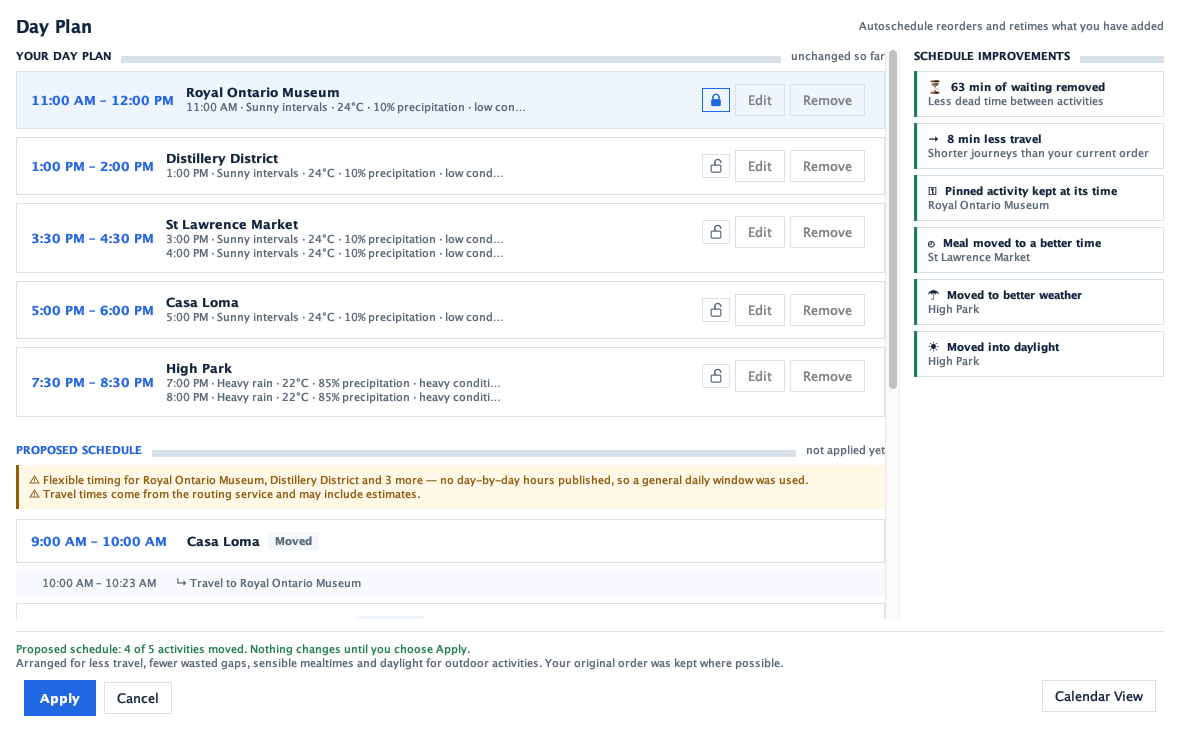
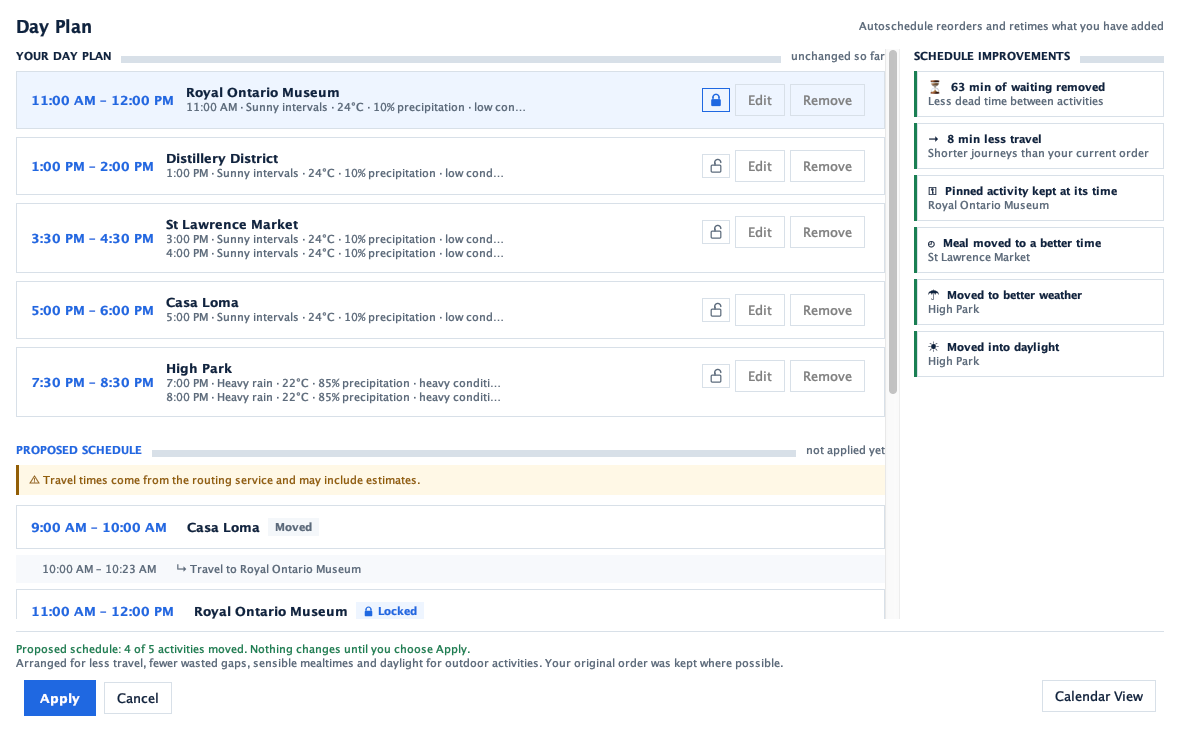
fix(autoschedule): drop the unknown-hours warning entirely
On real OpenStreetMap data most venues publish no opening_hours tag, so
naming them put a caution on nearly every schedule. A warning that always
appears is one people learn to skip, and it was costing the
travel-estimate caveat and the genuine conflicts some of their weight.

The behaviour is unchanged: a venue with no published hours is still
scheduled inside the activity's coarse single window, and that window is
still enforced. Only the commentary went.

A venue on record as shut for the trip date is still named, and that one
produces a conflict rather than a warning -- it stops the schedule
instead of decorating it.

aVenueWithNoRecordedHoursIsStillActuallyScheduled now pins the
permissiveness separately from any wording, so it cannot be lost while
nobody is looking. 472 -> 471 tests; the removed assertions were about
text that no longer exists.

Screenshot 3 re-captured: the warning band is back to one line.

Changed region(s): [[0.0, 0.6311, 0.7627, 0.8415]]

diff --git a/src/test/java/closeai/application/autoschedule/OpeningHoursWarningTest.java b/src/test/java/closeai/application/autoschedule/OpeningHoursWarningTest.java
@@ -68,75 +68,50 @@ class OpeningHoursWarningTest {
                         Collections.emptySet(), Collections.emptyList(), true, false));
     }
 
-    private String openingHoursWarning() {
-        for (String warning : presenter.getPreview().getWarnings()) {
-            if (warning.contains("Flexible timing")) {
-                return warning;
-            }
-        }
-        return null;
-    }
-
     @Test
-    void aVenueWithNoRecordedHoursIsScheduledAndSaidSoAbout() {
+    void aVenueWithNoRecordedHoursIsScheduledWithoutComment() {
         run(tripWith(event("Casa Loma", 10, OpeningHours.unknown())));
 
         assertNotNull(presenter.getPreview(), "unknown hours must not prevent a schedule");
-        String warning = openingHoursWarning();
-        assertNotNull(warning, "the guess must be stated: "
-                + presenter.getPreview().getWarnings());
-        assertTrue(warning.contains("Casa Loma"), warning);
-        assertTrue(warning.contains("no day-by-day hours published"), warning);
-        assertTrue(warning.contains("a general daily window was used"),
-                "the coarse window still applies, so the warning must not promise any time: "
-                        + warning);
-    }
-
-    @Test
-    void aVenueWithRealHoursIsNotWarnedAbout() {
-        run(tripWith(event("Gallery", 10, ProblemFixtures.hoursOn(DayOfWeek.WEDNESDAY,
-                "09:00-18:00"))));
-
-        assertNotNull(presenter.getPreview());
-        assertNull(openingHoursWarning(),
-                "hours we actually have need no caveat: "
+        assertTrue(presenter.getPreview().getWarnings().isEmpty(),
+                "no published hours is the ordinary case, not something to caution about: "
                         + presenter.getPreview().getWarnings());
     }
 
     @Test
-    void severalUnknownVenuesAreNamedTogetherInOneWarning() {
-        run(tripWith(event("Casa Loma", 10, OpeningHours.unknown()),
-                event("High Park", 13, OpeningHours.unknown())));
+    void aVenueWithRealHoursIsNotWarnedAboutEither() {
+        run(tripWith(event("Gallery", 10, ProblemFixtures.hoursOn(DayOfWeek.WEDNESDAY,
+                "09:00-18:00"))));
 
-        String warning = openingHoursWarning();
-        assertNotNull(warning);
-        assertTrue(warning.contains("Casa Loma and High Park"), warning);
-        assertTrue(warning.contains("a general daily window was used"), warning);
+        assertNotNull(presenter.getPreview());
+        assertTrue(presenter.getPreview().getWarnings().isEmpty(),
+                presenter.getPreview().getWarnings().toString());
     }
 
     @Test
-    void aLongDayOfUnknownVenuesIsSummarisedRatherThanListedInFull() {
+    void awholeDayOfVenuesWithoutHoursProducesNoWarningsAtAll() {
         run(tripWith(event("A", 9, OpeningHours.unknown()),
                 event("B", 11, OpeningHours.unknown()),
                 event("C", 13, OpeningHours.unknown()),
                 event("D", 15, OpeningHours.unknown())));
 
-        String warning = openingHoursWarning();
-        assertNotNull(warning);
-        assertTrue(warning.contains("A, B and 2 more"), warning);
+        assertNotNull(presenter.getPreview());
+        assertTrue(presenter.getPreview().getWarnings().isEmpty(),
+                "four unknowns is a normal day, not four problems: "
+                        + presenter.getPreview().getWarnings());
     }
 
+    /**
+     * The permissiveness itself is unchanged — it is only the commentary that went. An
+     * activity with no published hours is still placed inside its general daily window
+     * rather than refused, and that is what actually matters.
+     */
     @Test
-    void onlyTheVenuesWeReallyKnowNothingAboutAreNamed() {
-        run(tripWith(event("Known", 10, ProblemFixtures.hoursOn(DayOfWeek.WEDNESDAY,
-                        "09:00-18:00")),
-                event("Unknown", 13, OpeningHours.unknown())));
+    void aVenueWithNoRecordedHoursIsStillActuallyScheduled() {
+        run(tripWith(event("Casa Loma", 10, OpeningHours.unknown())));
 
-        String warning = openingHoursWarning();
-        assertNotNull(warning);
-        assertTrue(warning.contains("Unknown"), warning);
-        assertFalse(warning.contains("Known,"), warning);
-        assertFalse(warning.contains("and Known"), warning);
+        assertEquals(1, presenter.getPreview().getRows().size());
+        assertEquals("Casa Loma", presenter.getPreview().getRows().get(0).getTitle());
     }
 
     /**

diff --git a/src/main/java/closeai/application/autoschedule/AutoScheduleInteractor.java b/src/main/java/closeai/application/autoschedule/AutoScheduleInteractor.java
@@ -381,42 +381,20 @@ public final class AutoScheduleInteractor implements AutoScheduleInputBoundary {
     }
 
     /**
-     * Says out loud which venues were scheduled with no knowledge of their opening hours.
+     * Warns only about venues that are on record as shut for the whole trip date.
      *
-     * <p>Most places have no hours recorded, and the scheduler treats an unknown venue as
-     * unconstrained rather than shut — the alternative would be refusing to plan almost any
-     * real day. But that permissiveness is a guess, and a schedule that quietly guesses is
-     * worse than one that says where it did. Being told plainly is what lets a traveller
-     * check the two visits that matter instead of doubting all five.</p>
-     *
-     * <p>Worded as flexibility rather than as a missing-data complaint, because that is what
-     * it actually means for the traveller: these are the activities the day has the most
-     * freedom to move. The fact is the same either way, and leading with the absence would
-     * make a schedule that is working well read as though something had gone wrong.</p>
-     *
-     * <p>It says "a general daily window was used" rather than "any time", because a general
-     * window is exactly what still applies: with no per-weekday hours the task falls back to
-     * the activity's single opening/closing pair, and that pair is still enforced. Claiming
-     * the activity could go anywhere would be a nicer sentence and a false one.</p>
-     *
-     * <p>Venues known to be shut all day get their own warning: the search will simply fail
-     * to place them, and "could not be scheduled" with no reason is the least helpful thing
-     * this feature could say.</p>
+     * <p>Nothing is said about venues with no published hours, which is most of them. The
+     * scheduler treats those as unconstrained beyond their general daily window, and that is
+     * the ordinary case rather than a problem — warning about it put a caution on almost
+     * every schedule and made the real warnings worth less.</p>
      */
     private static void addOpeningHoursWarnings(List<ScheduleTask> tasks,
                                                 List<String> warnings) {
-        List<String> unknown = new ArrayList<>();
         List<String> closed = new ArrayList<>();
         for (ScheduleTask task : tasks) {
             if (task.isClosedAllDay()) {
                 closed.add(task.getActivity().getName());
-            } else if (!task.hasKnownHours()) {
-                unknown.add(task.getActivity().getName());
             }
-        }
-        if (!unknown.isEmpty()) {
-            warnings.add("Flexible timing for " + namesOf(unknown)
-                    + " — no day-by-day hours published, so a general daily window was used.");
         }
         if (!closed.isEmpty()) {
             warnings.add(namesOf(closed) + (closed.size() == 1 ? " is" : " are")

diff --git a/src/test/java/closeai/infrastructure/places/OpeningHoursProductionWiringTest.java b/src/test/java/closeai/infrastructure/places/OpeningHoursProductionWiringTest.java
@@ -142,15 +142,6 @@ class OpeningHoursProductionWiringTest {
         return null;
     }
 
-    private static String hoursWarning(DayPlanState state) {
-        for (String warning : state.getWarnings()) {
-            if (warning.contains("Flexible timing")) {
-                return warning;
-            }
-        }
-        return null;
-    }
-
     @Test
     void hoursFromTheProviderReachTheScheduleAndMoveTheVisit() throws Exception {
         // Open 13:00-18:00; the traveller left it at 17:00 with nothing else in the day.
@@ -163,7 +154,6 @@ class OpeningHoursProductionWiringTest {
                 "the day is free from 9am, so the earliest lawful start is the moment the "
                         + "doors open -- which OpenStreetMap says is 1pm, not 9am");
         assertFalse(museum.getEnd().isAfter(LocalTime.of(18, 0)));
-        assertNull(hoursWarning(state), "these hours were known, so nothing was guessed");
     }
 
     @Test
@@ -191,15 +181,15 @@ class OpeningHoursProductionWiringTest {
     }
 
     @Test
-    void aPlaceWithNoHoursTagIsStillScheduledAndTheGuessIsStated() throws Exception {
+    void aPlaceWithNoHoursTagIsStillScheduledAndSaysNothingAboutIt() throws Exception {
         DayPlanState state = schedule(discover(null), LocalTime.of(10, 0), 60);
 
         assertEquals(AutoScheduleStatus.PREVIEW, state.getStatus(), state.getMessage());
         assertNotNull(rowFor(state, "City Museum"),
                 "most OpenStreetMap places have no hours; refusing them all is not an option");
-        String warning = hoursWarning(state);
-        assertNotNull(warning, state.getWarnings().toString());
-        assertTrue(warning.contains("City Museum"), warning);
+        assertTrue(state.getWarnings().isEmpty(),
+                "and it is the ordinary case, so it needs no commentary: "
+                        + state.getWarnings());
     }
 
     @Test
@@ -208,8 +198,8 @@ class OpeningHoursProductionWiringTest {
                 LocalTime.of(10, 0), 60);
 
         assertEquals(AutoScheduleStatus.PREVIEW, state.getStatus(), state.getMessage());
-        assertNotNull(hoursWarning(state),
-                "a tag we cannot read is a guess like any other, and must be declared");
+        assertNotNull(rowFor(state, "City Museum"),
+                "a tag we cannot read must never bar a place we could otherwise schedule");
     }
 
     /**

diff --git a/docs/autoschedule/verification-evidence.md b/docs/autoschedule/verification-evidence.md
@@ -437,7 +437,7 @@ activity carried the same hard-coded 09:00-21:00 window, so there were no real h
 | Duration extending past closing refused, not truncated | `…aVisitOneMinuteTooLongForTheIntervalIsRefused`, `…aDurationThatWouldRunPastClosingIsRefusedRatherThanTruncated` |
 | Multiple intervals; no straddling the gap | `…aVisitMustFitInsideOneIntervalNotAcrossTheGapBetweenTwo`, `…aVisitTooLongForTheMorningShiftFallsToTheAfternoonOne` |
 | Closed day → unschedulable, named, zero minutes | `…aVenueClosedOnTheTripDateCannotBeScheduledAtAll`, `OpeningHoursWarningTest.aVenueClosedOnTheTripDateBecomesANamedConflict` |
-| Unknown hours → permissive, with a warning | `…unknownHoursConstrainNothingAndAreNotTreatedAsClosed`, `OpeningHoursWarningTest` (5 tests) |
+| Unknown hours → permissive, and silent | `…unknownHoursConstrainNothingAndAreNotTreatedAsClosed`, `OpeningHoursWarningTest` (5 tests) |
 | Malformed provider data degrades safely | `OpeningHoursParserTest.anythingNotFullyUnderstoodIsUnknownRatherThanGuessedAt` (12 values), `NominatimPlacesServiceTest.anUnparseableOpeningHoursTagDegradesToUnknownRatherThanFailingTheSearch` |
 | Locked activity outside hours → named conflict | `LockValidationTest.aLockAtAVenueThatIsShutAllDayIsRejectedByName`, `…aLockSpanningAVenuesMiddayClosureIsOutsideItsOpeningHours` |
 | Overnight hours, split at midnight onto both days | `OpeningHoursParserTest.aSpanPastMidnightIsSplitOntoBothDays`, `RealOpeningHoursTest.theEveningHalfOfAnOvernightVenueIsUsable`, `…theMorningHalfOfAnOvernightVenueBelongsToTheFollowingDay` |
@@ -528,8 +528,8 @@ was no provider path to test this way.
 | `hoursFromTheProviderReachTheScheduleAndMoveTheVisit` | `Mo-Fr 13:00-18:00` → the visit starts at 13:00, not at the day's 09:00 |
 | `aMiddayClosureFromTheProviderIsRespectedEndToEnd` | `We 10:00-11:30,15:00-19:00`, two-hour visit → 15:00, not straddling the closure |
 | `aVenueClosedOnTheTripDateIsRefusedByName` | `Sa 10:00-16:00` on a Wednesday → conflict naming the venue |
-| `aPlaceWithNoHoursTagIsStillScheduledAndTheGuessIsStated` | no tag → scheduled, and the warning names it |
-| `anUnreadableTagIsTreatedAsNoTagRatherThanAsAClosedDoor` | `Mo-Su sunrise-sunset` → scheduled, warning stated |
+| `aPlaceWithNoHoursTagIsStillScheduledAndSaysNothingAboutIt` | no tag → scheduled inside the coarse window, no warning |
+| `anUnreadableTagIsTreatedAsNoTagRatherThanAsAClosedDoor` | `Mo-Su sunrise-sunset` → scheduled, no warning |
 | `theScheduleBelievesTheWeekdayRatherThanTheFlattenedWeek` | flattened window says 23:00, Wednesday says 17:00, the visit ends by 17:00 |
 
 Three more in `NominatimPlacesServiceTest` pin the division of labour: the flattened window
@@ -541,3 +541,20 @@ when unparseable.
 flattened window. That coarse guard is the entity's — it has no idea which day it is being
 asked about — and the per-weekday rule is the scheduler's, stricter one. Documented in
 `architecture.md` rather than changed.
+
+### 9c. The unknown-hours warning, added and removed
+
+§9 recorded a preview warning naming every venue with no published hours. **It has been
+removed.** On real OpenStreetMap data most venues have no tag, so the caution appeared on
+nearly every schedule, and a warning that always appears is one people learn to skip — it
+cost the travel-estimate caveat and the genuine conflicts some of their weight.
+
+What did *not* change is the behaviour: a venue with no published hours is still scheduled
+inside the activity's coarse single window, and that window is still enforced.
+`OpeningHoursWarningTest.aVenueWithNoRecordedHoursIsStillActuallyScheduled` pins that
+separately from the wording, so the permissiveness cannot be lost while nobody is looking.
+
+A venue on record as *shut* for the trip date is still named — and it produces a conflict,
+which stops the schedule rather than decorating it.
+
+Test count 472 → 471; the removed assertions were about wording that no longer exists.

diff --git a/docs/autoschedule/screenshot-checklist.md b/docs/autoschedule/screenshot-checklist.md
@@ -13,9 +13,9 @@ Three things changed visibly in that pass and are why 1, 3, 5 and 6 were re-take
 
 - **Per-row weather.** Merging `origin/main` added an hourly condition line under each Day
   Plan activity. Not an Autoschedule change, but it is in every Day Plan shot.
-- **The opening-hours warning.** Shot 3's warning band now carries a second line naming the
-  venues scheduled without hours data. This is the visible half of the honesty rule and is
-  the reason shot 3 matters more than it did.
+- **Opening hours.** Imported hours are now a hard constraint, but nothing new is visible in
+  the seeded demo, whose venues are hand-built fixtures with no published hours. Shot 3's
+  warning band still carries only the travel-estimate caveat.
 - **Dennis's forecast popup**, added as shot 7.
 
 Every shot shows the polished interface: a 12-hour clock throughout, visible padlock
@@ -150,8 +150,8 @@ Filenames below are the ones committed.
 | **Purpose** | Use-case Explanation and functionality: preview-and-confirm, before/after metrics, per-row reasons. *(not individually rubric-named — see above)* |
 | **Starting state** | From state 1, tick **Lock** on Royal Ontario Museum. |
 | **Actions and settings** | Autoschedule → keep the defaults → **Generate Preview**. |
-| **Expected visible result** | `YOUR DAY PLAN` unchanged above with the museum still locked; a `PROPOSED SCHEDULE` header marked "not applied yet"; a **`SCHEDULE IMPROVEMENTS` stack on the right** with six cards (waiting removed, less travel, pinned kept, meal moved, into daylight, better weather); an amber warning band carrying **two** lines — *"Flexible timing for Royal Ontario Museum, Distillery District and 3 more — no day-by-day hours published, so a general daily window was used."* and the travel-estimate caveat; activity rows with `Locked` / `Moved` badges; travel rows tinted, indented and prefixed `↳`. Apply and Cancel visible; Autoschedule hidden. |
-| **Must appear in the crop** | The unchanged original plan **and** the proposal together — that juxtaposition is the whole point. The improvements stack, **both lines of the warning band**, and at least one badge. Capture at **1180px or wider** so the stack sits beside the schedule; below that it moves underneath, which is correct but is not the shot to present. The panel must be sized *before* the preview runs, because the layout decision is made when the state is rendered. |
+| **Expected visible result** | `YOUR DAY PLAN` unchanged above with the museum still locked; a `PROPOSED SCHEDULE` header marked "not applied yet"; a **`SCHEDULE IMPROVEMENTS` stack on the right** with six cards (waiting removed, less travel, pinned kept, meal moved, into daylight, better weather); an amber warning band carrying the travel-estimate caveat; activity rows with `Locked` / `Moved` badges; travel rows tinted, indented and prefixed `↳`. Apply and Cancel visible; Autoschedule hidden. |
+| **Must appear in the crop** | The unchanged original plan **and** the proposal together — that juxtaposition is the whole point. The improvements stack, the warning band, and at least one badge. Capture at **1180px or wider** so the stack sits beside the schedule; below that it moves underneath, which is correct but is not the shot to present. The panel must be sized *before* the preview runs, because the layout decision is made when the state is rendered. |
 | **Must not appear** | Any suggestion the plan has already changed. |
 
 ### 4. Why these times — expanded

diff --git a/docs/autoschedule/demo-script.md b/docs/autoschedule/demo-script.md
@@ -10,8 +10,8 @@ disabled state is now the fallback, not the norm. Do **not** claim traffic-aware
 no TomTom key has ever reached a verification run, so no real TomTom route has been
 obtained. Driving falls back to OSRM and is not traffic-aware.
 
-The seeded demo trip's venues have **no** opening hours — it is deterministic and offline —
-so step 4b is the honest one to run. If you want to show real hours instead, launch with
+The seeded demo trip's venues publish **no** opening hours — they are deterministic offline
+fixtures — so step 4b is talked through rather than shown. To show real hours, launch with
 `-Dcloseai.places.mode=nominatim`, search a city and add a place that publishes them;
 Raashid's adapter reads the tag on both search and map panning.
 
@@ -76,26 +76,25 @@ On the improvement cards:
 > search used*. An activity that was already in daylight earns nothing. Nothing that got
 > worse is dressed up as an achievement — the trade-offs are under 'Why this schedule?'."
 
-### 4b. What it does not know (25s)
-
-Point at the amber band, at the line naming venues.
+### 4b. Opening hours (25s)
 
 > "Opening hours are a hard constraint — an activity has to sit entirely inside one opening
 > interval, and a venue that shuts for lunch gets two intervals, not one long one. Travel is
 > allowed outside them, because walking to a museum before it opens is how you get there.
 >
-> But look at what it says: *flexible timing for these five*. Day-by-day hours come from
-> OpenStreetMap's `opening_hours` tag — Raashid's places adapter reads it — and most places
-> simply do not publish one. These five are hand-built demo fixtures, so none of them has a
-> tag at all, which is why all five are named. They still each have a general daily window,
-> and that window is still obeyed — which is why it says *a general window* and not *any
-> time*. I could have
-> treated silence as 'closed', and then it would refuse to plan almost any real day. So
-> unknown means no constraint — and it tells you exactly where it made that assumption. A
-> silent guess and a stated one look identical in a screenshot and are not the same promise.
+> They come from OpenStreetMap's `opening_hours` tag, which Raashid's places adapter reads.
+> When a venue publishes them they are obeyed strictly: shut on your date and it cannot be
+> scheduled at all, and you are told which one and why.
 >
-> When a venue *does* publish hours they are obeyed strictly: shut on your date and it
-> cannot be scheduled at all, and you are told which one and why."
+> Most places do not publish them, and those fall back to a general daily window, which is
+> still obeyed. Treating no data as 'closed' would refuse to plan almost any real day."
+
+If asked why the screen says nothing about that:
+
+> "It used to. It named every venue with no published hours, which on a real day is most of
+> them, so the caution appeared on nearly every schedule. A warning that always appears just
+> teaches you to skip warnings, so it went. A venue that is genuinely shut still gets named,
+> and that one stops the schedule rather than decorating it."
 
 If asked where the parsing lives:
 

diff --git a/docs/autoschedule/architecture.md b/docs/autoschedule/architecture.md
@@ -252,16 +252,20 @@ Three rules hold this together:
 |---|---|---|
 | Known | Intervals per weekday | Hard constraint |
 | Known, no intervals for the date | Shut all day | Unschedulable, named in the conflict |
-| Unknown | The provider said nothing, or something unparseable | **No constraint, plus a warning** |
+| Unknown | The provider said nothing, or something unparseable | **Falls back to the coarse single window** |
 
 Most OpenStreetMap places carry no `opening_hours` tag. Reading silence as "closed" would
-refuse to plan almost any real day, so unknown is permissive — and the Interactor adds
-"Flexible timing for X — no day-by-day hours published, so a general daily window was used."
-to the preview's warnings. Worded as flexibility rather than as missing data, and careful to
-say *a general window* rather than *any time*, because the activity's single opening/closing
-pair is still enforced. Anything the parser cannot fully understand (month ranges, `sunrise`/`sunset`,
-quoted comments) becomes unknown for the same reason: a wrong guess would either bar a venue
-that is open or book one that is shut, and both are worse than saying so.
+refuse to plan almost any real day, so unknown falls back to the activity's single
+opening/closing pair, which is still enforced.
+
+**Nothing is said about it in the preview.** An earlier version warned which venues had no
+published hours; on a real day that is most of them, so the caution appeared on nearly every
+run, and a caution that always appears devalues the ones that matter. Only a venue on record
+as *shut* for the trip date is worth naming, and that one produces a conflict rather than a
+warning. Anything the parser cannot fully understand (month ranges, `sunrise`/`sunset`,
+quoted comments) is treated as unknown for the same reason a missing tag is: a wrong guess
+would either bar a venue that is open or book one that is shut, and the coarse window is a
+better answer than either.
 
 `Activity` keeps its original single `openingTime`/`closingTime` pair alongside the new
 field. That pair is what every hand-built activity and every existing test has, and when

diff --git a/README.md b/README.md
@@ -231,18 +231,15 @@ Three outcomes, and the last is the one that matters:
 |---|---|
 | Real hours for the trip date | Places the activity inside one interval; a pin outside one is a named conflict |
 | The venue is shut that day | Refuses to schedule it, naming the venue and reporting zero minutes available |
-| **Nothing, or something unreadable** | **Schedules it with no opening-hours limit at all, and says so** |
+| **Nothing, or something unreadable** | **Schedules it inside its general daily window** |
 
 The third row is the common one: most OpenStreetMap places carry no `opening_hours` tag, and
-treating silence as "shut" would refuse to plan almost any real day. So unknown hours stay
-permissive — and the preview names the venues it had no day-by-day data for
-("Flexible timing for Casa Loma — no day-by-day hours published, so a general daily window
-was used."). It is worded as flexibility because that is what it means for the traveller:
-these are the activities the day has the most freedom to move. It says *a general window*
-rather than *any time* because the activity's single opening/closing pair is still enforced.
-A silent guess and a stated one look identical in a screenshot and are not the same promise.
-Anything the parser cannot fully understand — month ranges, `sunrise`/`sunset`, free text —
-becomes unknown rather than a guess.
+treating silence as "shut" would refuse to plan almost any real day. So those venues fall
+back to the single opening/closing window the activity already carries, which is still
+enforced — and the preview says nothing about it, because a caution that appears on almost
+every schedule only teaches people to ignore the ones that matter. Anything the parser cannot
+fully understand — month ranges, `sunrise`/`sunset`, free text — is treated the same way
+rather than guessed at.
 
 ### Preview and Apply
 
